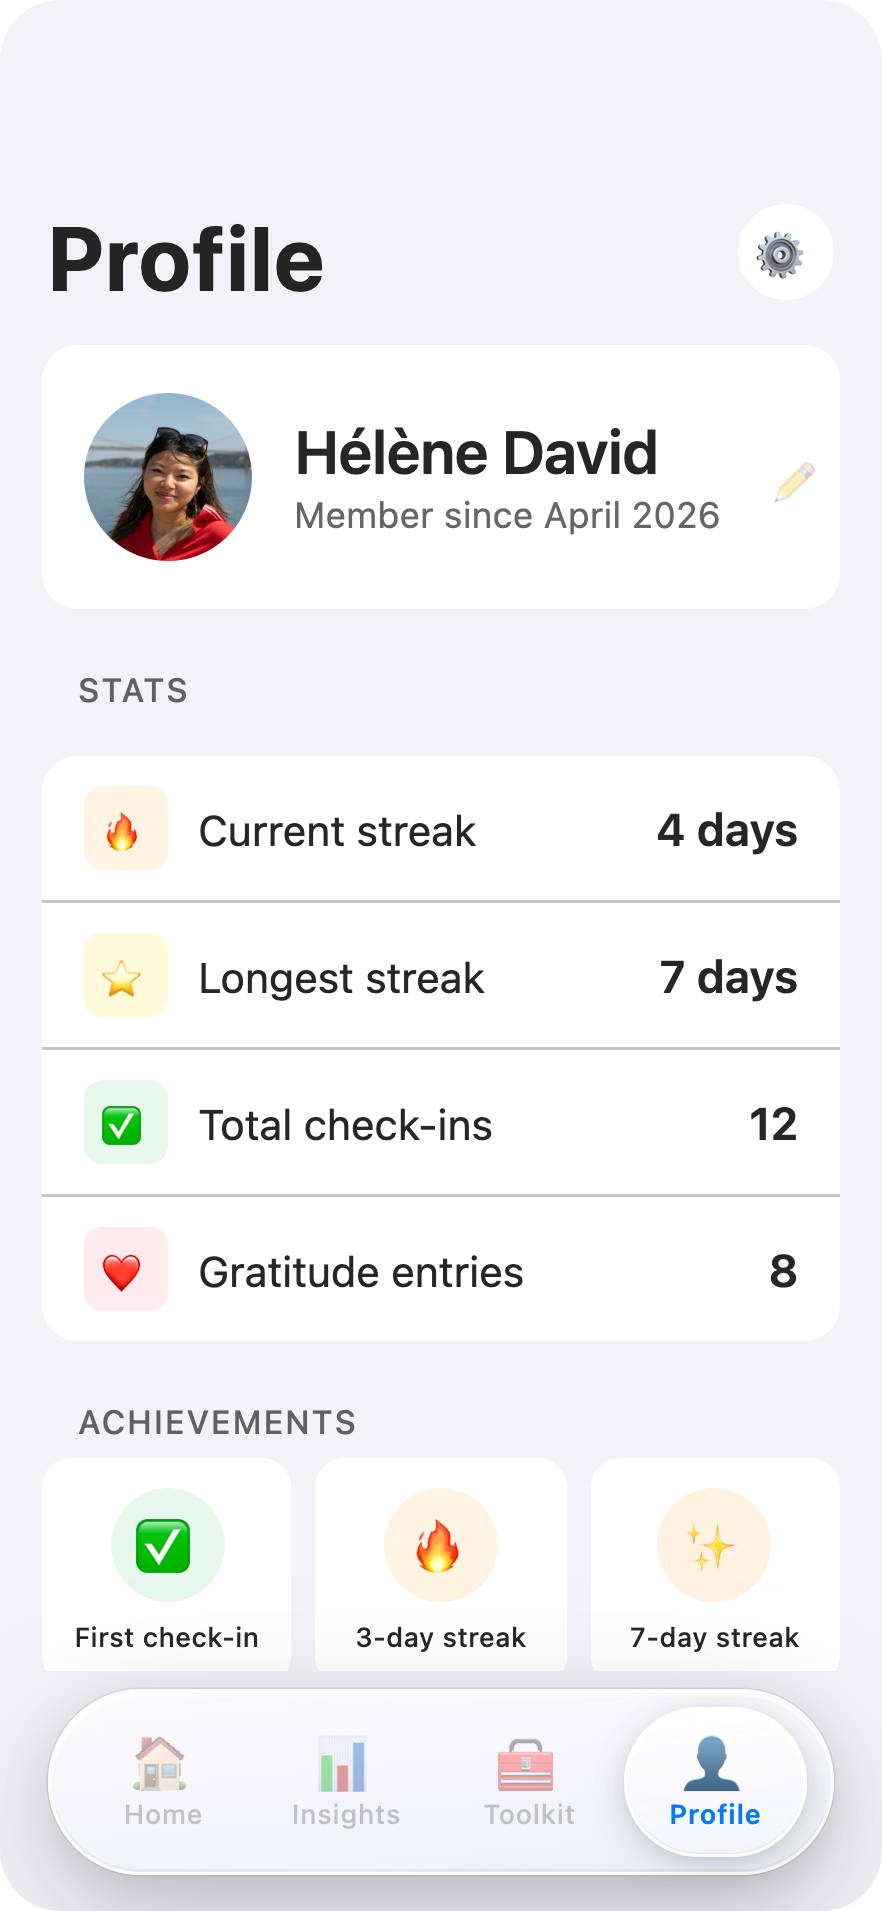
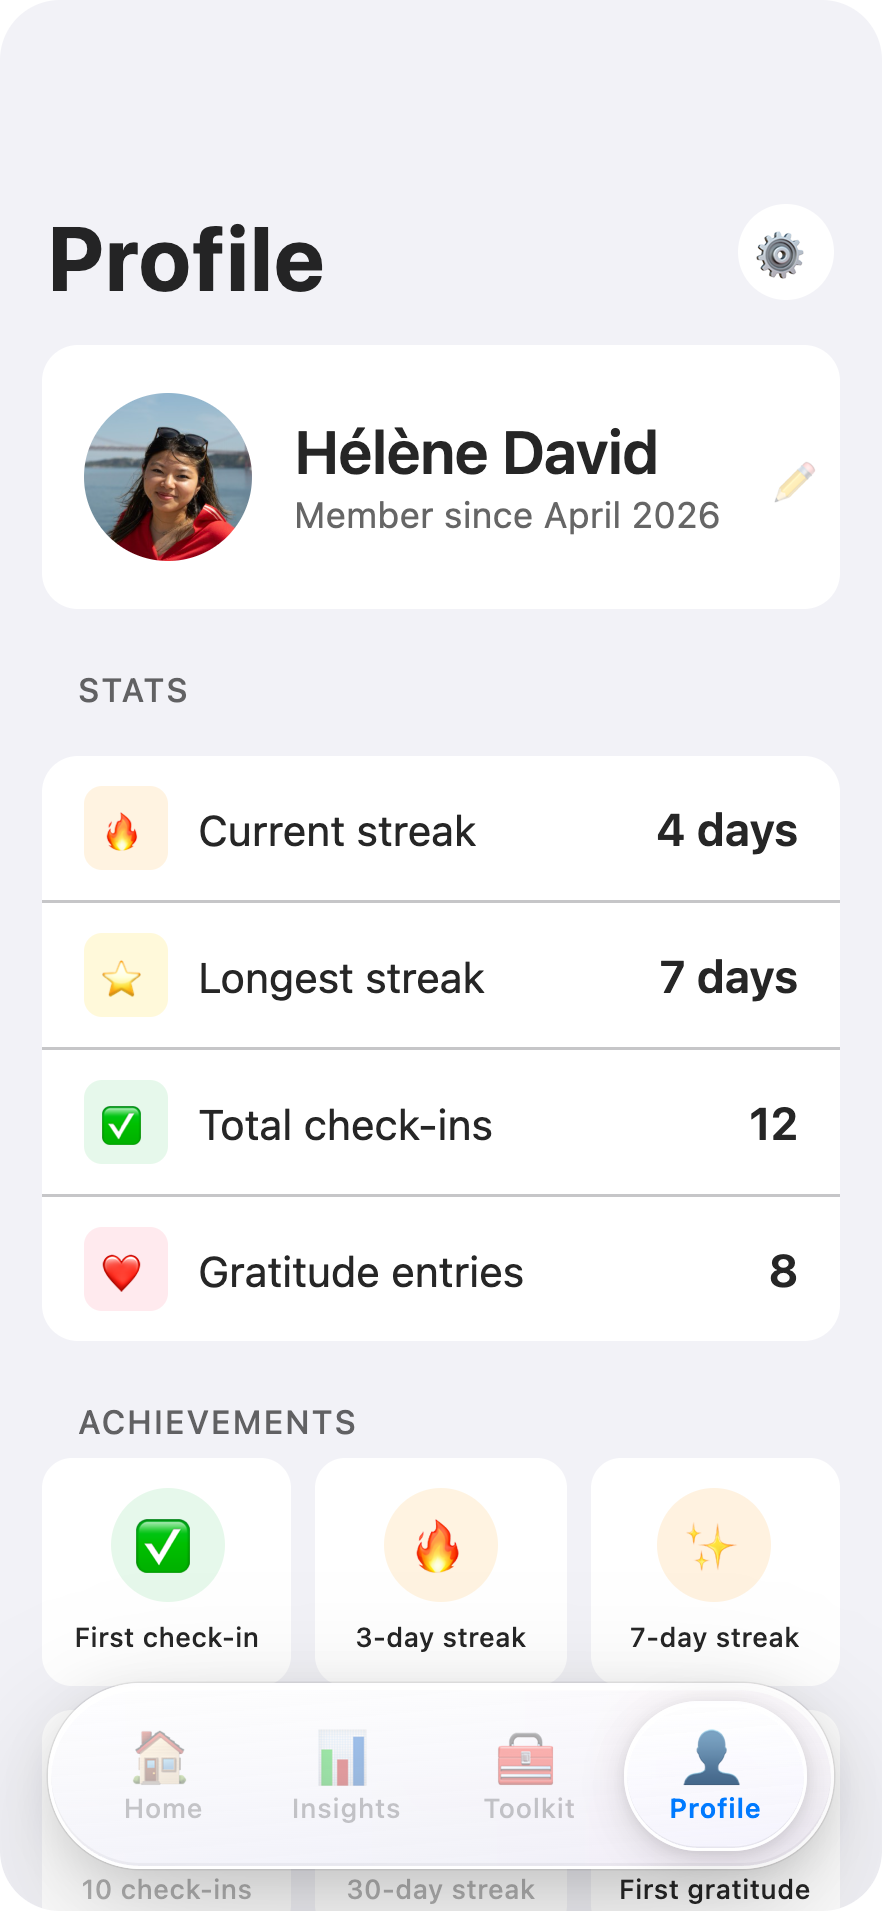
Fix tab bar: content scrolls behind glass overlay (true liquid glass behaviour)
Previously the scroll region stopped above the tab bar (flex layout).
Now the .screen-scroll fills the full 637px height and .tab-bar is
position:absolute at the bottom — content visibly continues behind the
frosted pill exactly like iOS 26 liquid glass.

- .screen: remove flex, keep position:relative + overflow:hidden
- .screen-scroll: height:100%, padding-top:52px (status bar),
  padding-bottom:88px (so last card can scroll above the bar)
- .tab-bar: position:absolute; bottom:14px; left:50%; translateX(-50%)
- Remove now-redundant spacer divs from all three HTML screens
- Regenerate home.png, insights.png, profile.png via Puppeteer @3×

Changed region(s): [[0.0918, 0.8645, 0.9184, 1.0]]

diff --git a/mockups/export/shared.css b/mockups/export/shared.css
@@ -25,23 +25,23 @@ body {
   border-radius: 20px;
   overflow: hidden;
   position: relative;
-  display: flex;
-  flex-direction: column;
 }
-/* Fake status bar area */
-.screen::before {
-  content: '';
-  display: block;
-  height: 52px;
-  flex-shrink: 0;
-}
-/* Scrollable content region — fills space above the tab bar */
+
+/*
+ * Content scrolls the FULL height of the screen.
+ * The tab bar floats over it (position:absolute), so content visibly
+ * continues behind the frosted glass — exactly like iOS liquid glass.
+ * Bottom padding keeps the last card reachable above the bar.
+ */
 .screen-scroll {
-  flex: 1;
+  height: 100%;
   overflow-y: auto;
   overflow-x: hidden;
   -webkit-overflow-scrolling: touch;
   scrollbar-width: none;
+  padding-top: 52px;   /* status bar clearance */
+  padding-bottom: 88px; /* enough to scroll last card above the tab bar */
+  box-sizing: border-box;
 }
 .screen-scroll::-webkit-scrollbar { display: none; }
 .card { background: var(--surface); border-radius: 12px; margin: 0 14px; }
@@ -106,12 +106,14 @@ body {
 .ach-tile.locked .ach-icon-wrap { background: var(--bg); opacity: 0.4; }
 .ach-tile.locked .ach-label { color: var(--text3); }
 .section-label { padding: 20px 26px 6px; font-size: 11px; font-weight: 500; color: var(--text2); letter-spacing: 0.5px; text-transform: uppercase; }
-/* ── iOS 26-style liquid glass tab bar ──────────────────────────────────── */
+/* ── iOS 26-style liquid glass tab bar — floats over content ────────────── */
 .tab-bar {
+  position: absolute;
+  bottom: 14px;
+  left: 50%;
+  transform: translateX(-50%);
   width: 262px;
   height: 62px;
-  margin: 6px auto 12px;
-  flex-shrink: 0;
   /* Frosted glass pill */
   background: linear-gradient(175deg,
     rgba(255,255,255,0.78) 0%,

diff --git a/mockups/export/screen_home.html b/mockups/export/screen_home.html
@@ -75,7 +75,6 @@
       </div>
     </div>
 
-    <div style="height: 12px;"></div>
   </div><!-- end .screen-scroll -->
 
   <div class="tab-bar">

diff --git a/mockups/export/screen_insights.html b/mockups/export/screen_insights.html
@@ -55,7 +55,6 @@
     </div>
   </div>
 
-    <div style="height: 12px;"></div>
   </div><!-- end .screen-scroll -->
 
   <div class="tab-bar">

diff --git a/mockups/export/screen_profile.html b/mockups/export/screen_profile.html
@@ -71,7 +71,6 @@
     </div>
   </div>
 
-    <div style="height: 12px;"></div>
   </div><!-- end .screen-scroll -->
 
   <div class="tab-bar">
